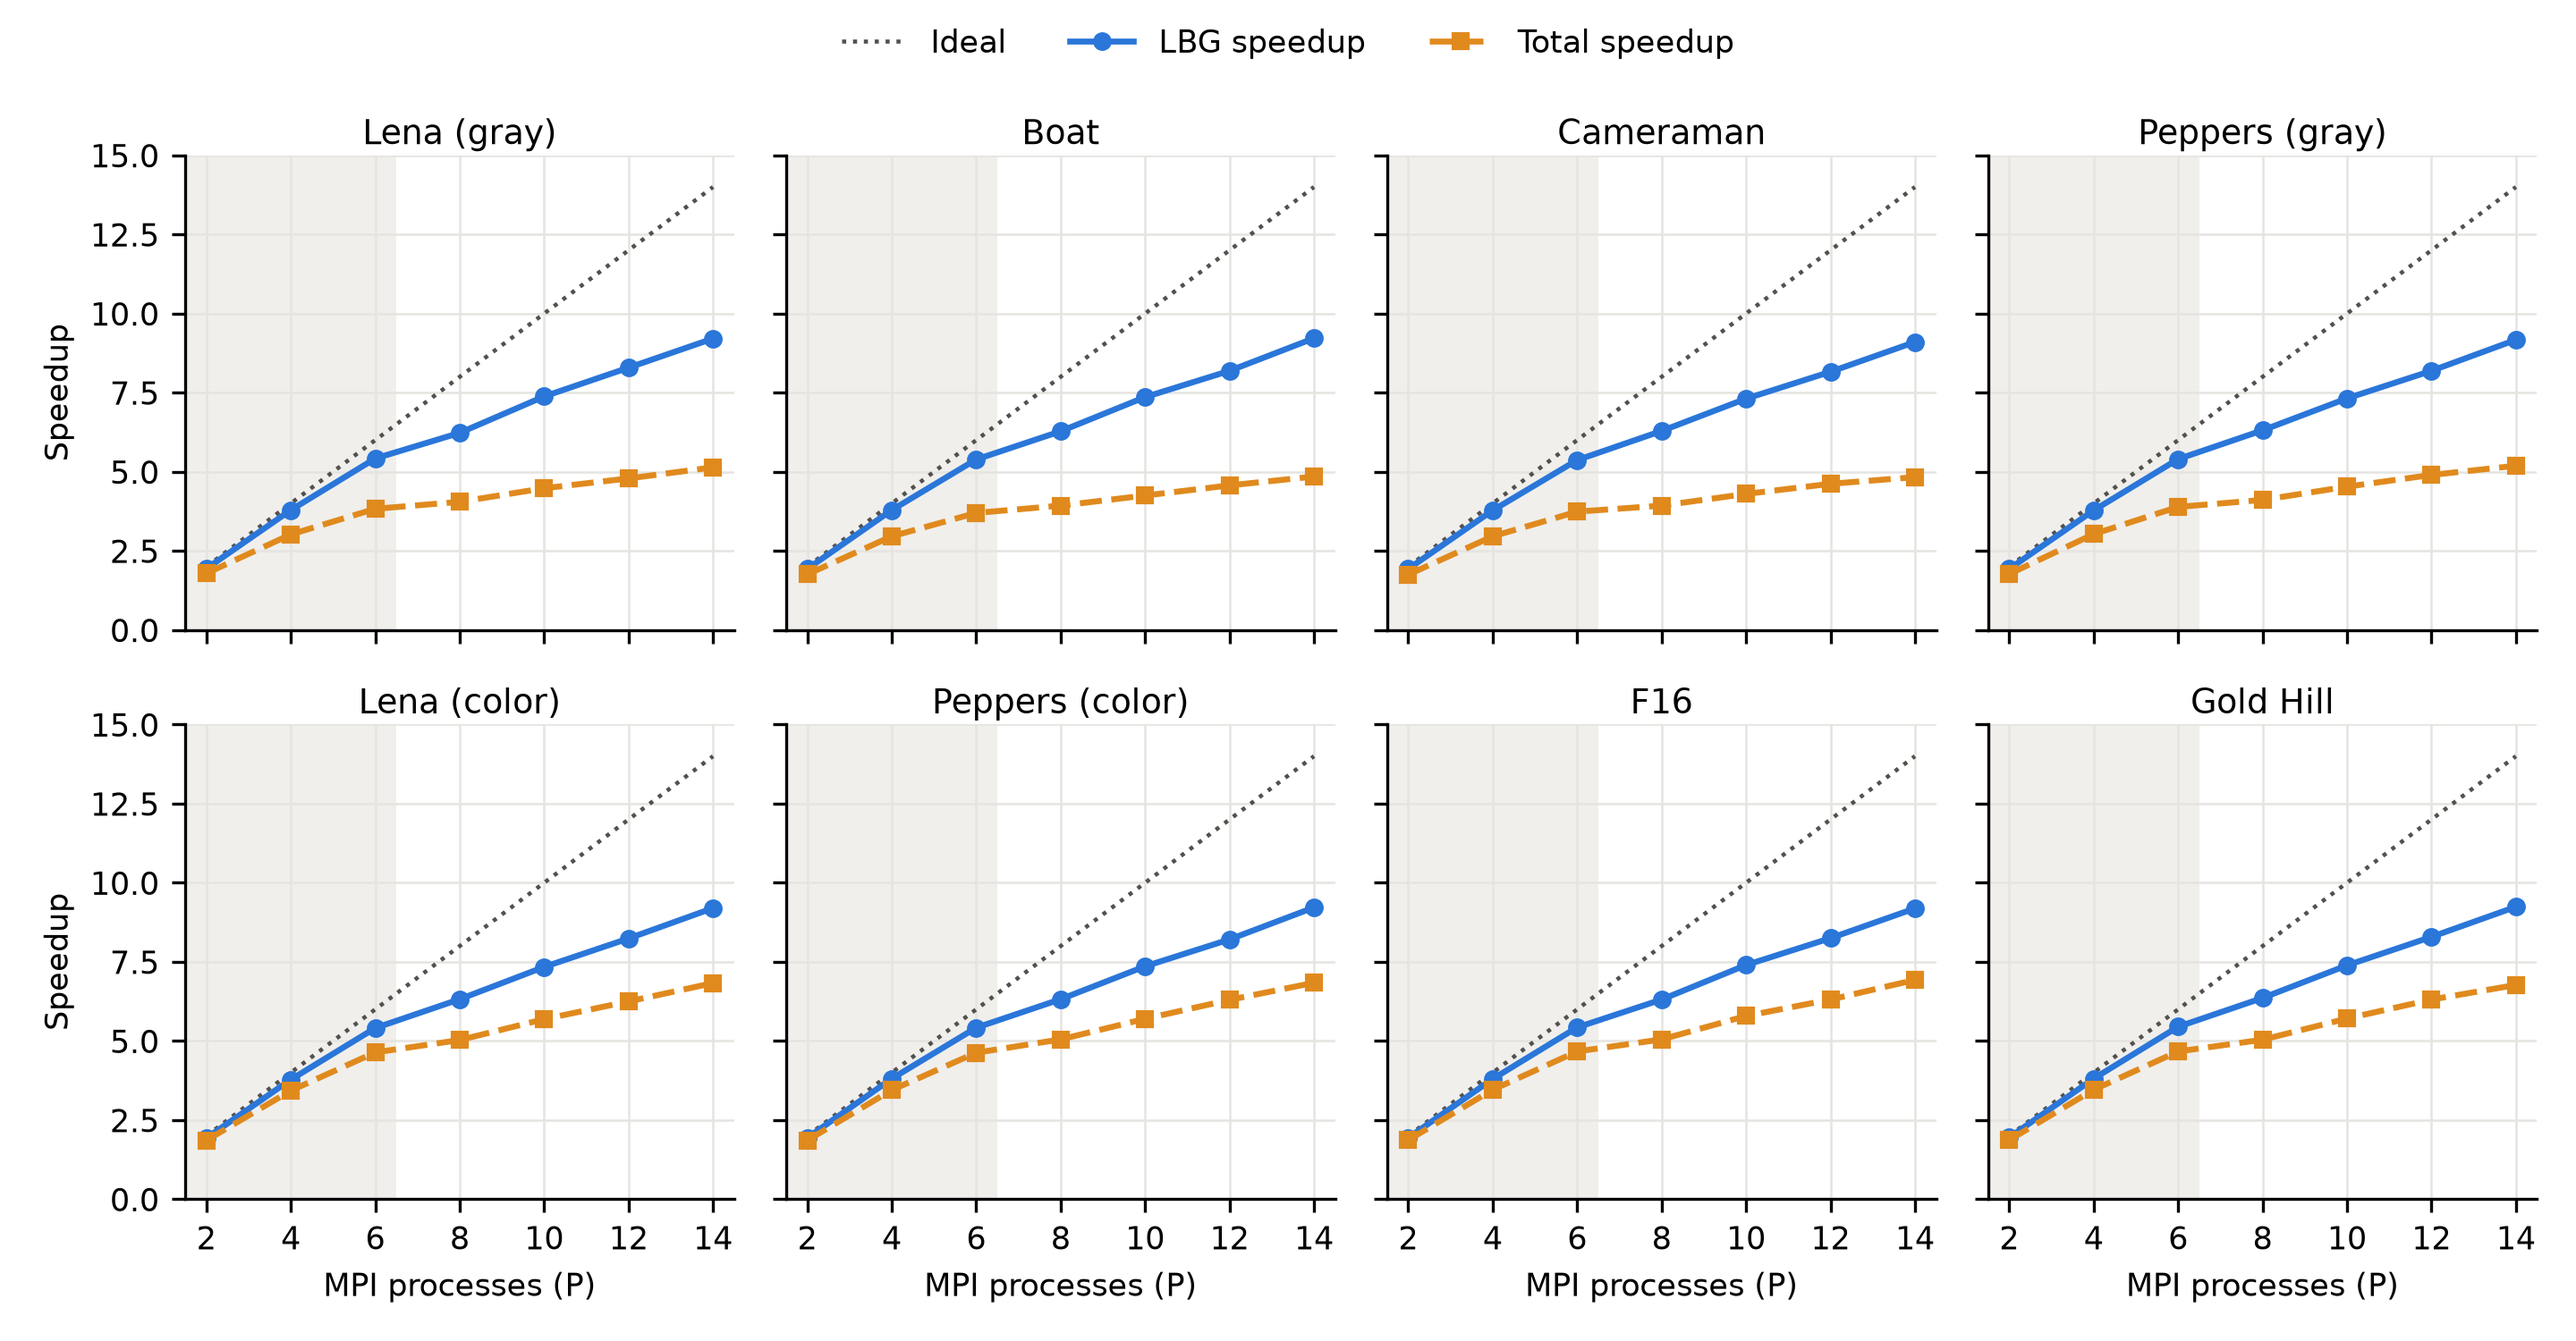
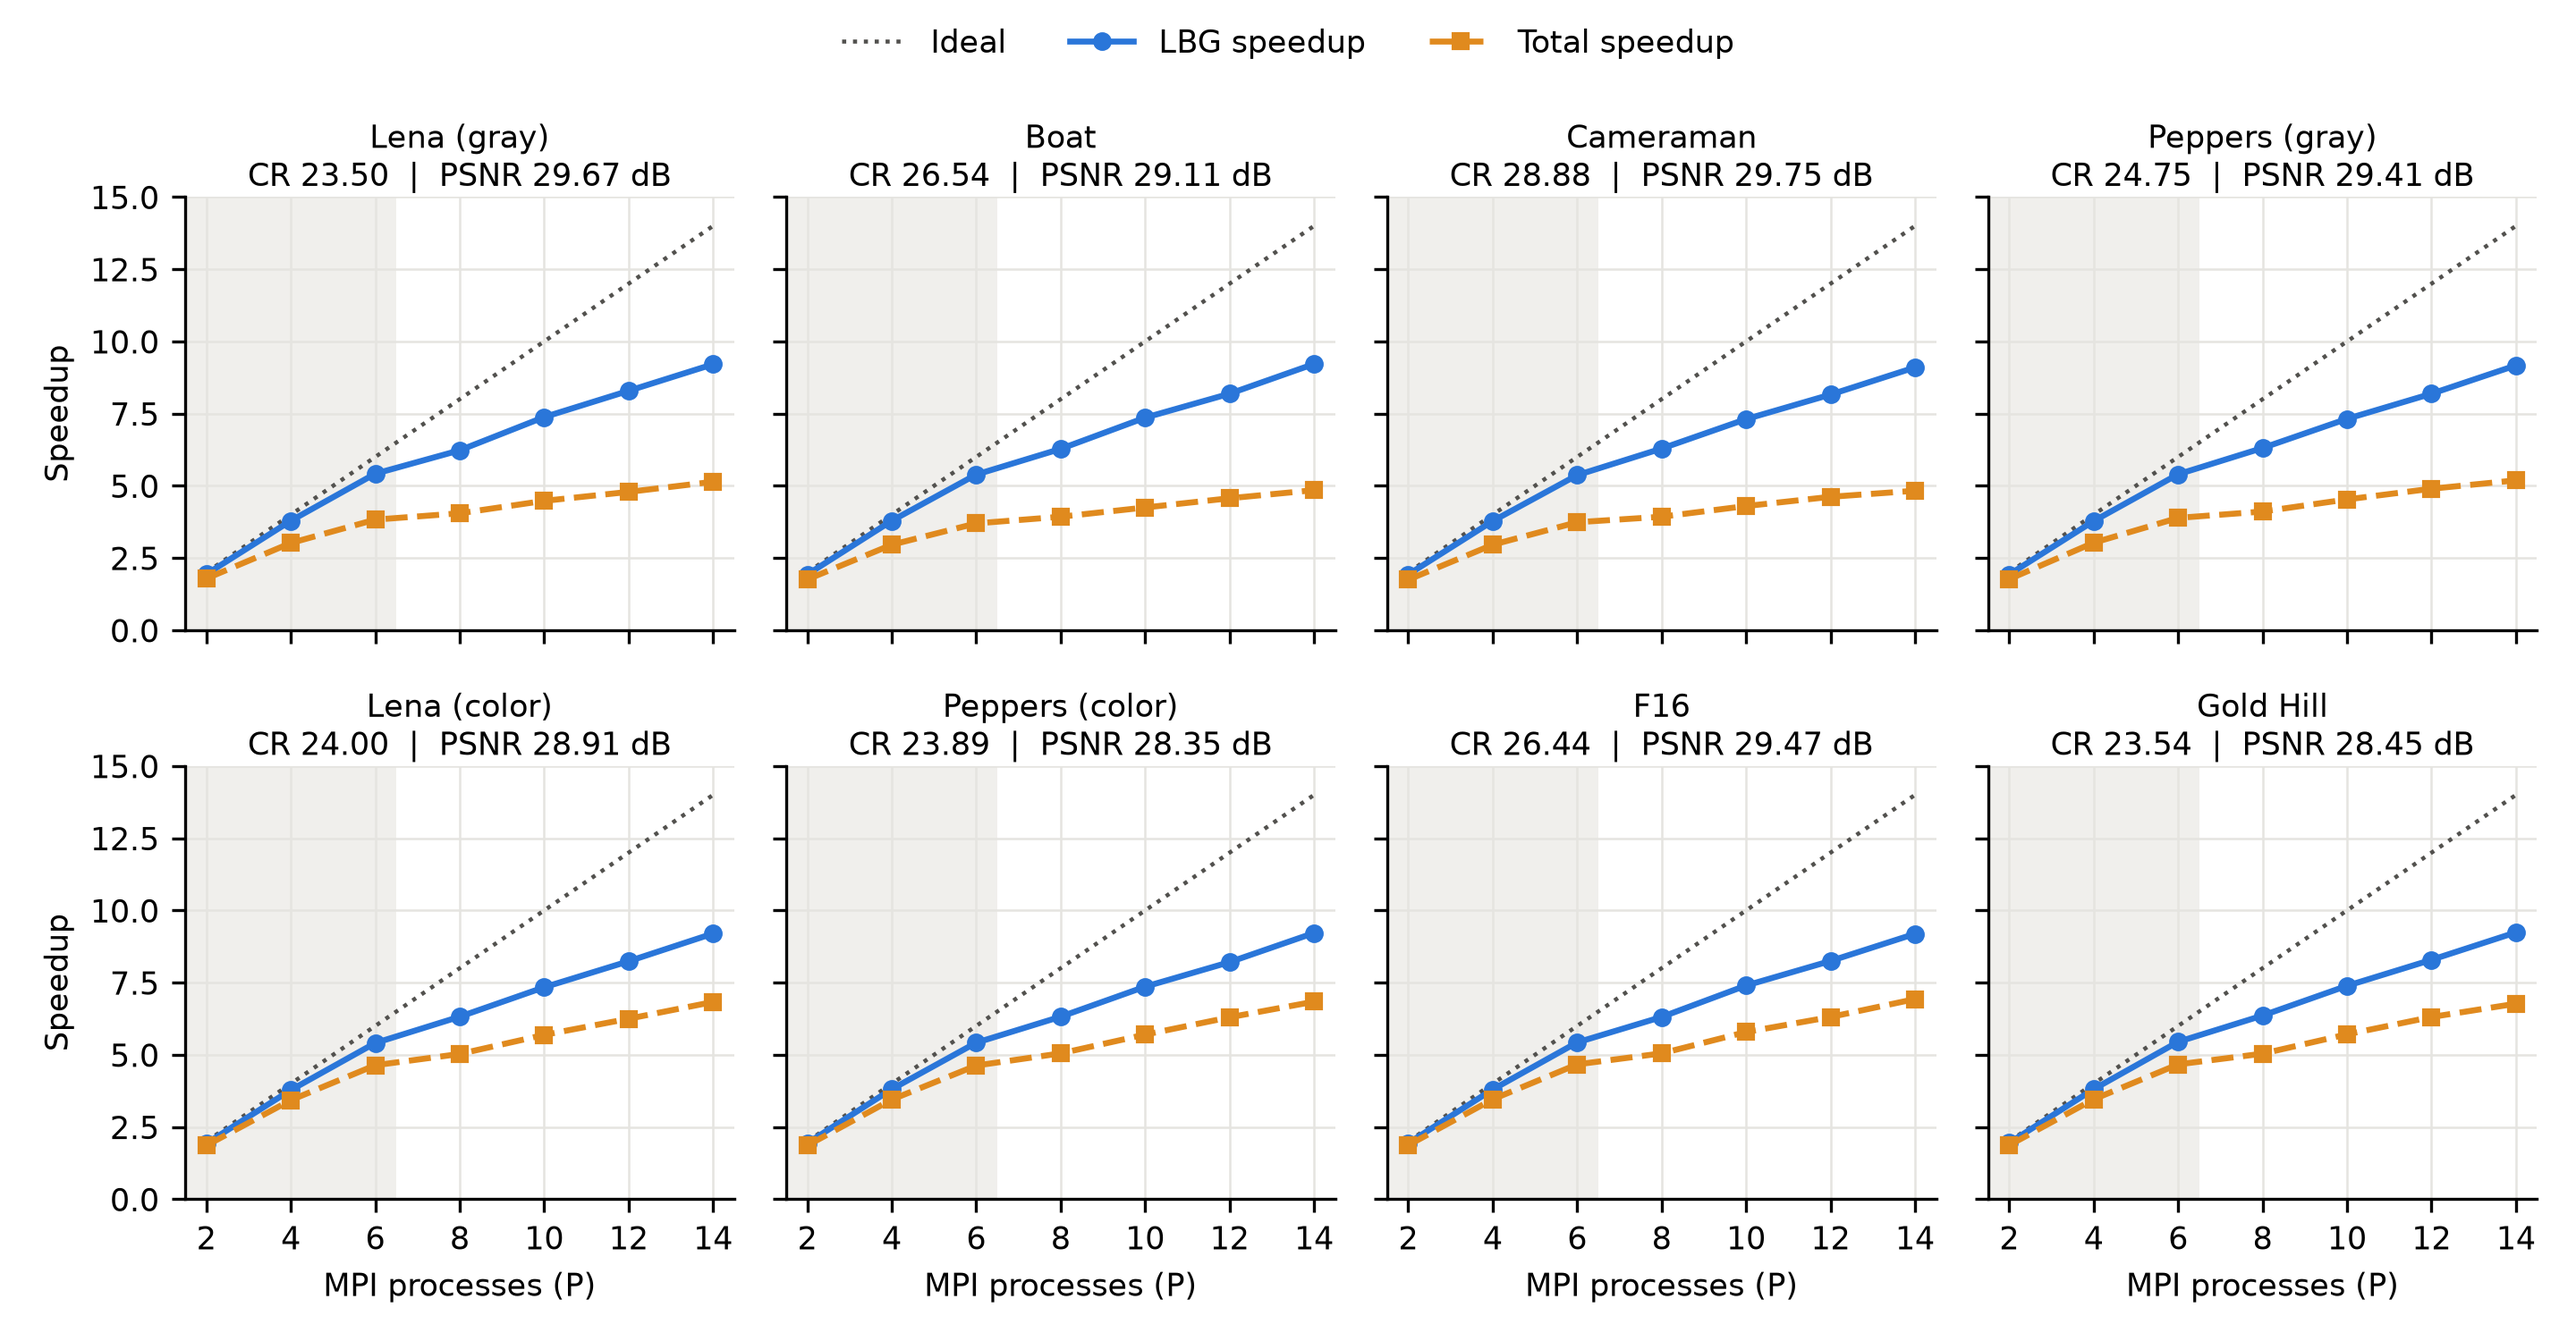
Per-image speedup figure: CR and PSNR as text in each panel title
Claude-Session: https://claude.ai/code/session_01T6gEewJ8YaCdmnsfS34RJd

diff --git a/make_per_image_speedup_figure.py b/make_per_image_speedup_figure.py
@@ -1,12 +1,12 @@
 #!/usr/bin/env python3
-"""One small chart per test image (2 x 4 grid): ideal speedup, LBG speedup, and total-time speedup versus the number of MPI processes.
+"""One small chart per test image (2 x 4 grid; CR and PSNR, identical for all P, are written under the image name): ideal speedup, LBG speedup, and total-time speedup versus the number of MPI processes.
 usage: python3 make_per_image_speedup_figure.py out.png results/final_campaign   (reads timing_final.csv)"""
 import csv, os, sys
 import matplotlib
 matplotlib.use("Agg")
 import matplotlib.pyplot as plt
 out, res = sys.argv[1], sys.argv[2]
-T = list(csv.DictReader(open(os.path.join(res, "timing_final.csv"))))
+T = list(csv.DictReader(open(os.path.join(res, "timing_final.csv")))); C = list(csv.DictReader(open(os.path.join(res, "correctness.csv"))))
 ORDER = [("gray", "Lena (gray)"), ("boat_img", "Boat"), ("cameraman_img", "Cameraman"), ("peppers_img", "Peppers (gray)"),
          ("lena_color", "Lena (color)"), ("peppers_color2", "Peppers (color)"), ("f16_color", "F16"), ("goldhill_color", "Gold Hill")]
 P = [2, 4, 6, 8, 10, 12, 14]
@@ -19,7 +19,8 @@ for ax, (key, label) in zip(axs.flat, ORDER):
     ax.plot([2, 14], [2, 14], ":", color="#52514e", linewidth=1.1, label="Ideal")
     ax.plot(P, [float(R[p]["SpeedupLBG"]) for p in P], "o-", color="#2a76d9", markersize=4, linewidth=1.6, label="LBG speedup")
     ax.plot(P, [float(R[p]["SpeedupTotal"]) for p in P], "s--", color="#e08a1e", markersize=4, linewidth=1.6, label="Total speedup")
-    ax.set_title(label, fontsize=9, pad=3); ax.set_xticks(P); ax.set_ylim(0, 15); ax.set_xlim(1.5, 14.5)
+    cc = [r for r in C if r["image"] == key][0]["seq"].split()
+    ax.set_title(label + "\nCR " + cc[0] + "  |  PSNR " + cc[2] + " dB", fontsize=8.5, pad=3); ax.set_xticks(P); ax.set_ylim(0, 15); ax.set_xlim(1.5, 14.5)
 for ax in axs[1]: ax.set_xlabel("MPI processes (P)")
 for ax in axs[:, 0]: ax.set_ylabel("Speedup")
 h, l = axs[0][0].get_legend_handles_labels()
